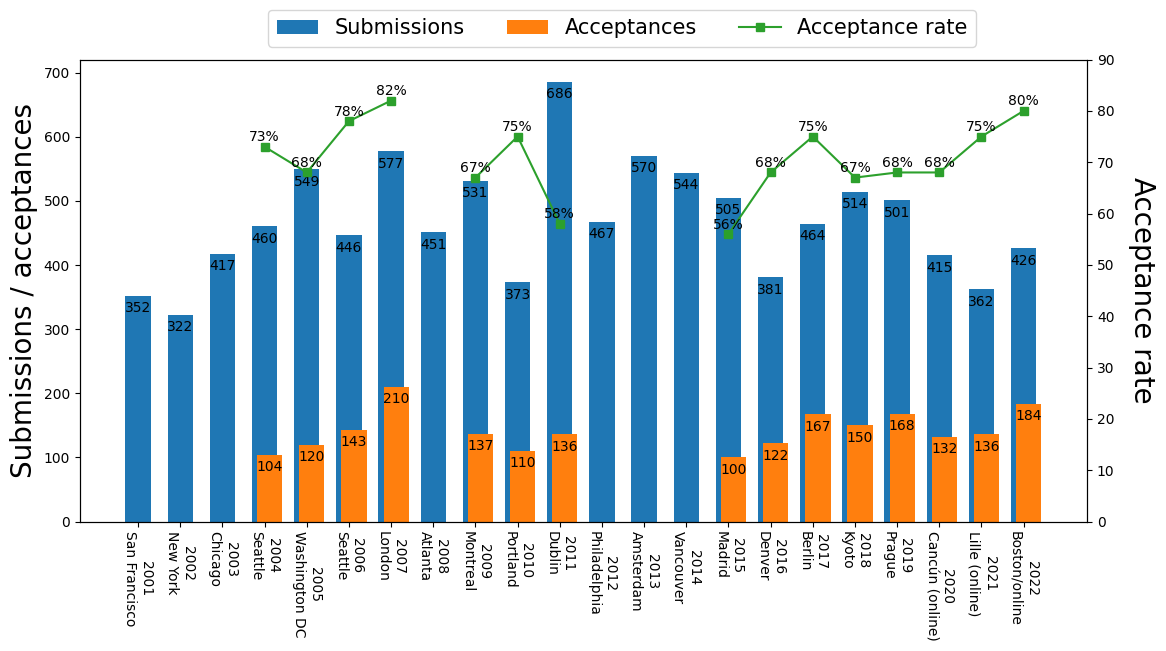
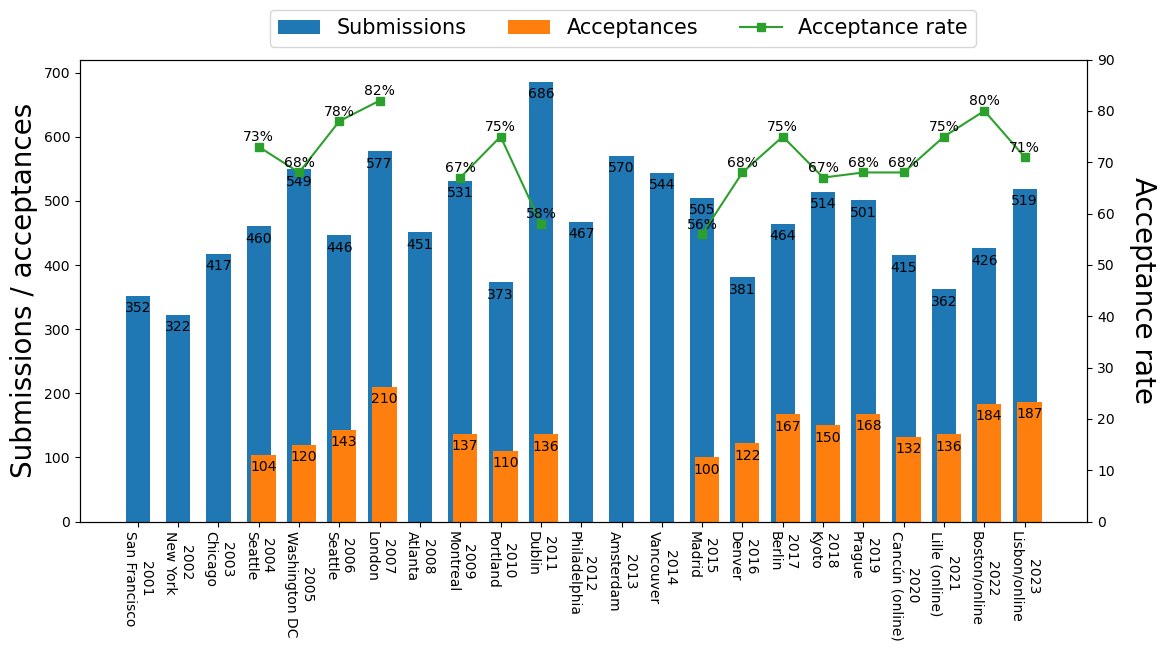
update gecco info

diff --git a/index.md b/index.md
@@ -27,11 +27,12 @@ The date format in the following table is ``Year.Month.Day``. The submission dea
 
 |  Conference  | Venue | Start date | End date | Abstract submission | Paper submission |
 | ---- | ---- | ---- | ---- | ---- | ---- |
-| [CEC 2023](https://2023.ieee-cec.org/) | Chicago, USA | 2023.07.02 | 2023.07.05 |  |2023.01.13  |
-| [GECCO 2023](https://gecco-2023.sigevo.org/) | Lisbon , Portugal | 2023.07.15 | 2023.07.19 | 2023.02.03  | 2023.02.10 |
 | [FOGA 2023](https://hpi.de/foga2023/) | Potsdam, Germany | 2023.08.30 | 2023.09.01 |  | 2023.04.27 |
+| [Evostar 2024](https://www.evostar.org/2024/) | Aberystwyth, Wales | 2024.04.03 | 2024.04.05 |   | 2023.11.01 |
 | [WCCI 2024](https://wcci2024.org/) | Yokohama, Japan | 2024.06.30 | 2024.07.05 |  |2024.01.15|
+| [GECCO 2024](https://gecco-2024.sigevo.org/) | Melbourne (hybrid), Australia | 2024.07.14 | 2024.07.18 | 2024.01.25  | 2024.02.01 |
 | PPSN 2024 | Hagenberg, Austria | 2024.09.?? | 2024.09.?? |   | 2024.03.?? |
+
 
 ## <a id="coreranks" href="#coreranks">CORE2021 rankings</a> 
 
@@ -78,6 +79,7 @@ This table provides statistics of full papers, not two-page poster papers.
 | 2020 | 415        | 149        | 36%             | Cancún (online)       | 
 | 2021 | 362        | 134        | 37%             | Lille (online)       | 
 | 2022 | 426        | 158        | 37%             | Boston (hybrid)       | 
+| 2023 | 519        | 180        | 35%             | Lisbon (hybrid)       | 
 
 ![GECCO](fig/stats_gecco.png) 
 
@@ -115,6 +117,7 @@ It is not obvious how to calculate the acceptance rates of GECCO poster papers. 
 | 2020 | 415        | 132        | 149             | 68%             | Cancún (online)        | 
 | 2021 | 362        | 136        | 134             | 75%             | Lille (online)       | 
 | 2022 | 426        | 184        | 158             | 80%             | Boston (hybrid)       | 
+| 2023 | 519        | 187        | 180             | 71%             | Lisbon (hybrid)       | 
 
 ![GECCO (poster)](fig/stats_gecco_poster.png) 
 
